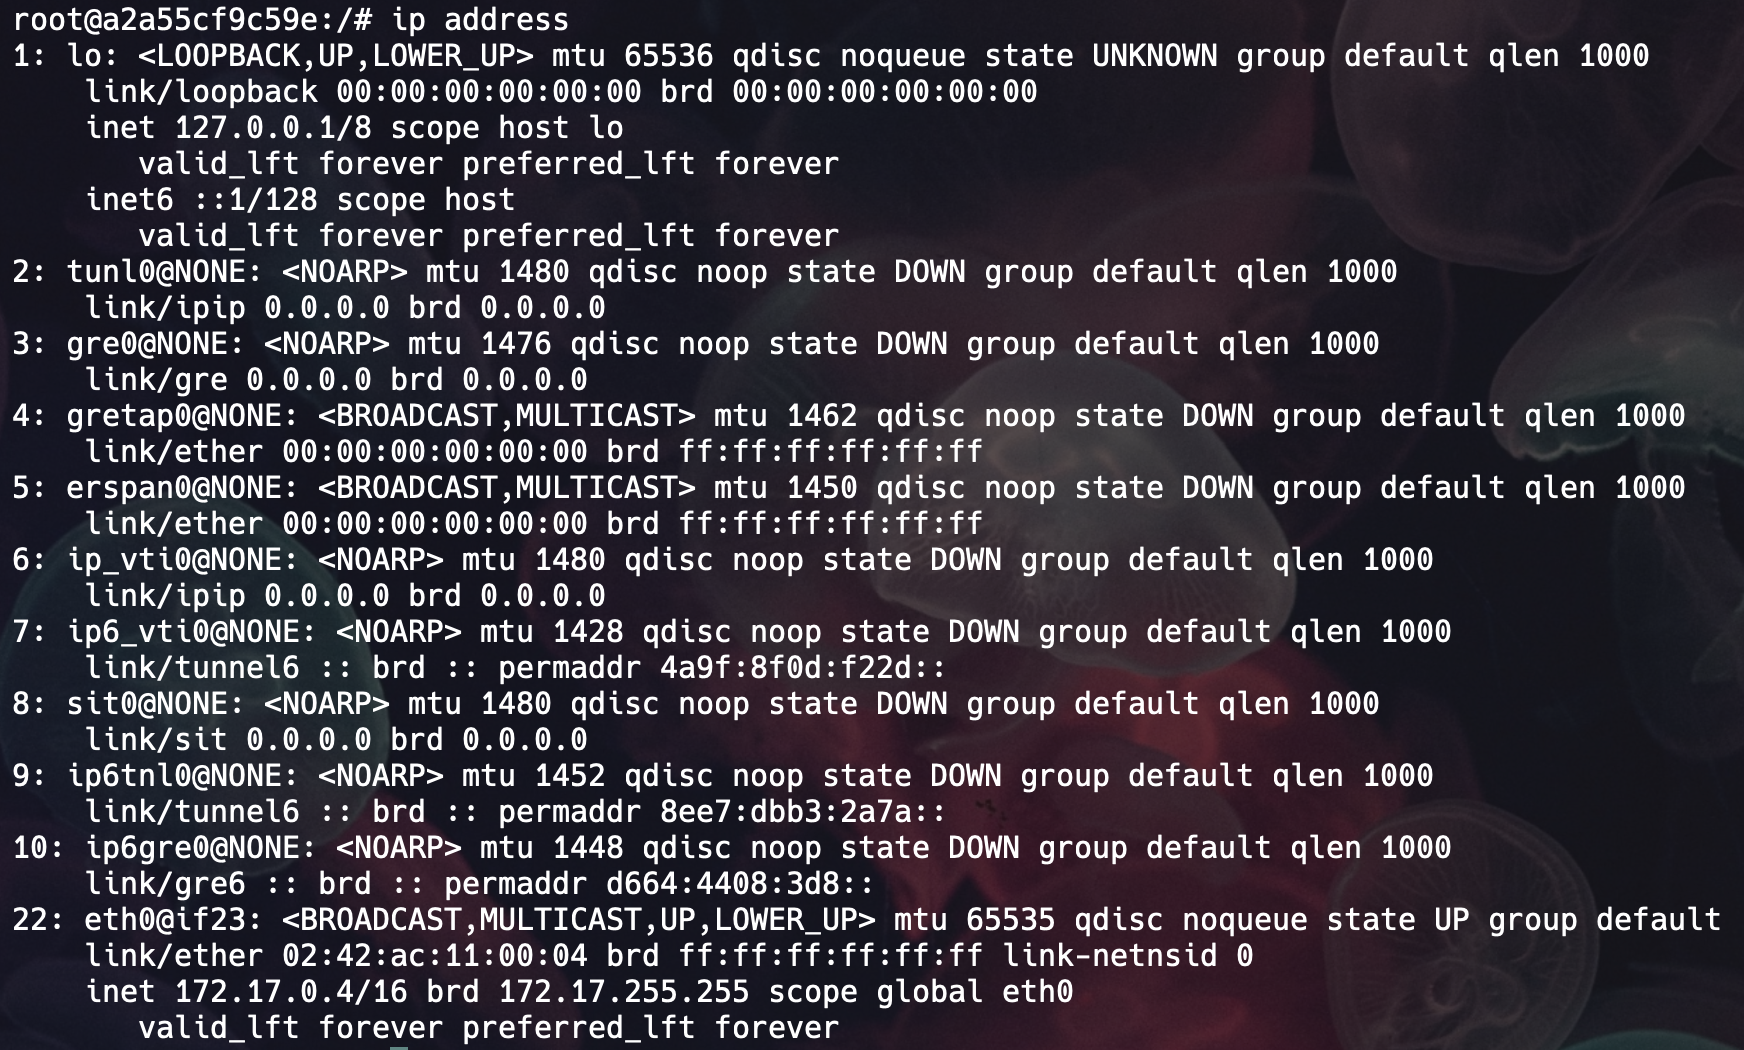
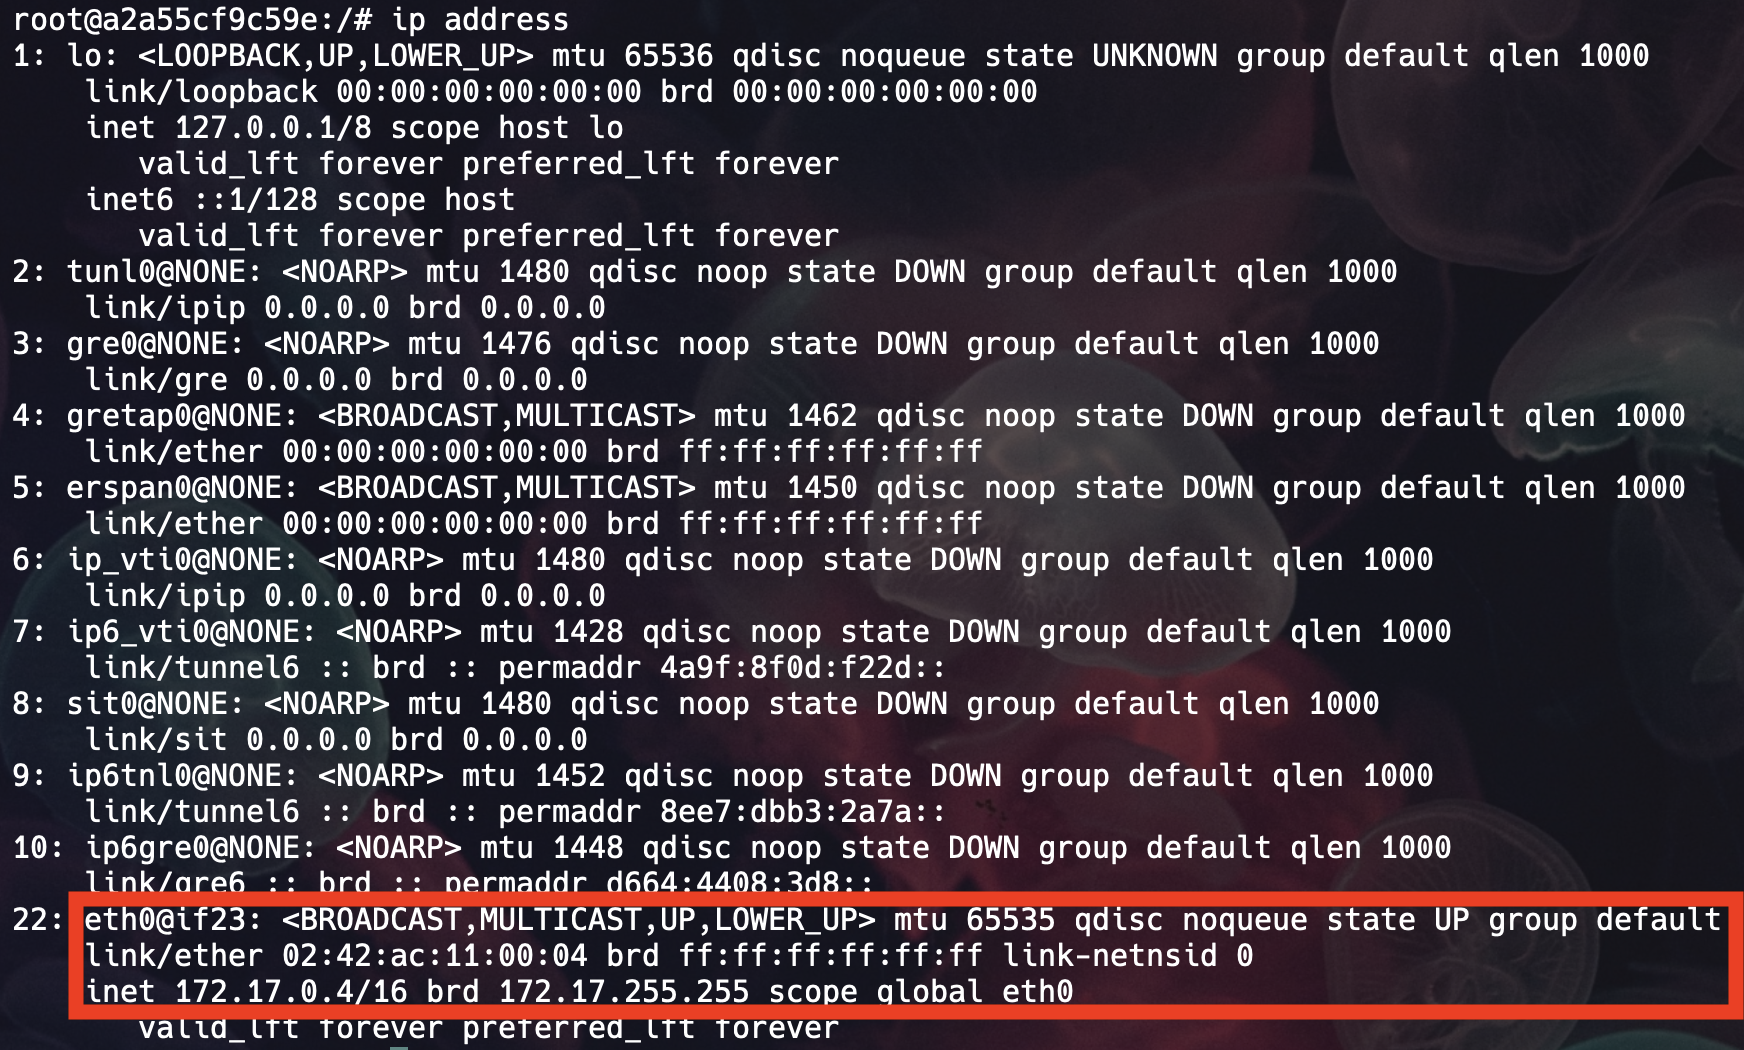
20個目追加

Changed region(s): [[0.031, 0.8229, 1.0, 0.9752]]

diff --git a/articles/sankaku0724-newcreate20.md b/articles/sankaku0724-newcreate20.md
@@ -1,5 +1,5 @@
 ---
-title: "【初学者向け】Dockerネットワーク"
+title: "【初学者向け】Dockerネットワークの基礎と実践"
 emoji: "🌐"
 type: "tech"
 topics:
@@ -13,7 +13,7 @@ published: false
 
 ## はじめに
 
-今回は、Dockerのネットワーク
+今回は、Dockerのネットワークについて説明します。
 
 :::message
 もし誤解や間違いがあれば、ぜひコメントなどでご指摘していただけると助かります。
@@ -36,47 +36,201 @@ https://docs.docker.jp/engine/reference/commandline/index.html
 
 https://docs.docker.com/
 
+## Dockerネットワーク
+
+私たちはDockerを扱う際に仮想的なネットワークを作ることで，Dockerホストとコンテナ、もしくはコンテナ間で通信することができます。
+
+ここで，[**`docker network`コマンド**](https://docs.docker.jp/engine/userguide/networking/work-with-networks.html)を用いることでDocker上のネットワークの各種設定をすることができます．
+
+まず，Dockerが管理するネットワークの確認をしてみます．Dockerが管理するネットワークは、`docker network ls`コマンドで確認できます。
+
+```
+docker network ls
+```
+
+![](/images/sankaku20/1.png)
+*Dockerが管理するネットワーク*
+
+実行画面から分かるように、「bridge」「host」「none」という三つのネットワークが表示されました．[デフォルトでDockerは三つのネットワークを自動的に作成するようになっています](https://docs.docker.jp/engine/userguide/networking/dockernetworks.html#id2)。
+
+それぞれどんな役割を持つのか確認してみましょう．
+
+## bridgeネットワーク
+
+**[bridgeネットワーク](https://docs.docker.jp/network/bridge.html)はDockerのデフォルトネットワークモード**で、ネットワークオプションを指定しない場合に使用されます。このモードでは、各コンテナのネットワークは独立しており、-pオプションを使用して通信するコンテナを指定します。Dockerホストやコンテナは、1つの仮想的なbridgeネットワークで接続され、IPアドレスが割り当てられます。
+
+### コンテナに割り当てられているIPアドレスの確認
+
+コンテナに対して、どのようなIPアドレスが割り当てられるのかを確認してみます。
+
+#### コンテナの作成
+
+ここでは、2つのhttpdコンテナを起動し、そのコンテナに割り当てられるIPアドレスを確認します。httpdの使い方などは以下のサイトを確認してください。
+
+https://hub.docker.com/_/httpd
+
+以下のコマンドでポート番号8080に割り当てた「web01」とポート番号8081に割り当てた「web02」という名前のコンテナをそれぞれ作成します．
+
+```
+docker run -dit --name web01 -p 8080:80 httpd:2.4
+```
+
+```
+docker run -dit --name web02 -p 8081:80 httpd:2.4
+```
+
+![](/images/sankaku20/2.png)
+*二つのhttpdコンテナを作成*
+
+#### IPアドレスの確認
+
+コンテナが起動したらIPアドレスを確認します．
+この際に，Dockerコンテナの詳細情報を取得するためのコマンドである[**`docker container inspect`コマンド**](https://docs.docker.jp/engine/reference/commandline/inspect.html)を用い，--formatオプションをつけることでIPアドレスの部分だけを表示させるようにします．
+
+```
+docker container inspect --format="{{.NetworkSettings.IPAddress}}" web01
+```
+
+```
+docker container inspect --format="{{.NetworkSettings.IPAddress}}" web02
+```
+
+![](/images/sankaku20/3.png)
+
+これにより，web01は「172.17.0.2」，web02は「172.17.0.3」というIPアドレスが設定されていることが判明しました．
+
+### Dockerコンテナ同士の通信
+
+コンテナはそれぞれ異なるIPアドレスを持ち、bridgeネットワークに接続されています。そのため，コンテナ同士はこのネットワークを通じて互いに自由に通信を行うことができます．
+
+ここで注意する必要があります．**Dockerコンテナ間で通信する際は，-pオプションを設定する必要がない**ということです．-pオプションはDockerホスト側で受信したデータをそれぞれのDockerコンテナの特定のポートに転送する設定ですが、Dockerホストを経由しない通信の場合には必要ないからです．
+
+#### 1. 三つ目のコンテナの作成
+
+実際にコンテナ間で通信できるのか試してみます。
+ここでは、三つ目のコンテナを作成し、そのコンテナからweb01とweb02に通信可能かどうかを確認します．
+
+以下のコマンドで新しいubuntuコンテナを作成し，シェルを起動します。実行するとプロンプトが表示され、コンテナ内でコマンド入力ができるようになります。
+
+```
+docker run --rm -it ubuntu /bin/bash
+```
+
+![](/images/sankaku20/4.png)
+*コマンド入力できるように*
+
+#### 2. 必要なものをインストール
+
+コマンド入力できるようになったら，以下のコマンドをそれぞれ入力することでネットワーク関連の操作を可能にします．
 
 ```
 apt update
 apt -y upgrade
 apt install -y iproute2 iputils-ping curl
 ```
+- **`apt update`**
+パッケージリストを最新の状態に更新します。これにより、システムは最新の利用可能なパッケージ情報を取得します。
 
-ping -c 3 172.17.0.2
+- **`apt -y upgrade`**
+インストールされているすべてのパッケージを最新バージョンにアップグレードします。-yオプションは、すべての質問に対して自動的に「yes」と答えるため、ユーザーの確認を省略します。
 
-curl http://172.17.0.2/
+- **`apt install -y iproute2 iputils-ping curl`**
+`iproute2`、`iputils-ping`、および`curl`パッケージをインストールします。-yオプションは、インストールに際しての確認を自動的に「yes」としてスキップします。
 
-docker run -dit --name web01 -p 8080:80 --net mynetwork httpd:2.4
+  - `iproute2`: ネットワークインターフェイスやルーティングを管理するためのツールセットであり，`ip`コマンドなどが含まれています。
+  - `iputils-ping`: ネットワークの接続性を確認するための `ping`コマンドを提供します。
+  - `curl`: URLからデータを取得するためのコマンドラインツールであり，HTTP、HTTPS、FTPなどのプロトコルをサポートしています。
+
+#### 3. IPアドレスを確認する
+
+`ip`コマンドでIPアドレスを確認します．
 
 ```
-
+ip address
 ```
-
-
-
-
-
-
-
-
-![](/images/sankaku20/1.png)
-
-![](/images/sankaku20/2.png)
-
-![](/images/sankaku20/3.png)
-
-![](/images/sankaku20/4.png)
 
 ![](/images/sankaku20/5.png)
 
+画像の最後の部分に表示されているeth0インターフェイスのinetの部分を確認すると，IPアドレスは「172.17.0.4」であることが確認できました。
+
+#### 4. pingで疎通確認
+
+既に確認してあるweb01コンテナやweb02コンテナのIPアドレスに対してpingを送信して疎通確認をします。
+
+```
+ping -c 3 172.17.0.2
+```
+
+- `-c 3`: 送信するパケットの回数を指定します。この場合、3回のリクエストを送信します。
+
 ![](/images/sankaku20/6.png)
+*web01へのping送信*
+
+```
+ping -c 3 172.17.0.3
+```
 
 ![](/images/sankaku20/7.png)
+*web02へのping送信*
+
+
+結果が「0% packet loss」となっていることから，疎通できていることがわかります．
+
+#### 5. コンテンツを取得
+
+次に，`curl`コマンドを使用してweb01やweb02に接続することで、公開されているWebコンテンツを取得できるかを確認します．
+
+```
+curl http://172.17.0.2/
+```
+
+```
+curl http://172.17.0.3/
+```
 
 ![](/images/sankaku20/8.png)
 
+「It works!」と表示されていることから，Webコンテンツを取得できていることがわかります．
+
+#### 6. IPアドレス以外で接続確認
+
+ここで，コンテナ名で接続しようとするとどうなるでしょうか．
+web01を指定して，`ip`コマンドや`curl`コマンドを使用してみます．
+
+```
+ping -c 3 web01
+```
+
+```
+curl http://web01/
+```
+
 ![](/images/sankaku20/9.png)
+*実行画面*
+
+どちらも同様に、**web01が見つからないというエラーが発生**します。
+
+#### 7. 作業終了
+
+`exit`と入力して終了します。
+
+```
+exit
+```
+
+### Dockerネットワークの新規作成
+
+このように、それぞれのコンテナは、割り当てられたIPアドレスを介して、互いに通信できることがわかりました。同時に、IPアドレスの代わりにコンテナ名を使って通信することはできないこともわかりました。
+コンテナ名で通信相手を指定できないのは、とても不便です。なぜなら、コンテナに対して、どのようなIPアドレスが割り当てられるのかはコンテナを起動するまでわかりませんし、コンテナを破棄して作り直せば、IPアドレスが変わる恐れがあるためです。実験や開発目的ならともかく、実運用まで考えたときは、IPアドレスではなくてコンテナ名で通信相手を特定できるほうが望ましいといえます。
+そのための方法は、2つあります。1つは、Dockerネットワークを新規に作成する方法、もう1つは
+-linkオプションを指定する方法です。後者の方法は非推奨なのでコラムで紹介することにし、以下では、前者の方法を説明していきます。
+
+
+```
+docker run -dit --name web01 -p 8080:80 --net mynetwork httpd:2.4
+```
+
+
 
 ![](/images/sankaku20/10.png)
 
@@ -109,16 +263,34 @@ docker run -dit --name web01 -p 8080:80 --net mynetwork httpd:2.4
 ![](/images/sankaku20/24.png)
 
 
+## hostネットワーク
 
+**[hostネットワーク](https://docs.docker.jp/network/host.html)は，コンテナがホストのネットワークスタックを直接使用するネットワークモード**です。
+**DockerホストのIPアドレスを全Dockerコンテナで共有して使うことができる**ため，ネットワーク性能が重要なアプリケーションやホストのIPアドレスをそのまま使用したい場合に適しています．これにより，ネットワークのオーバーヘッドが少なくなるため、通信速度が向上することがあります．また，コンテナがホストのネットワークを直接使用するため、ネットワークの設定が簡素化されるというメリットもあります．
 
+## noneネットワーク
 
-
-
-
+**[noneネットワーク](https://docs.docker.jp/network/none.html)は，コンテナがネットワークに接続しないネットワークモード**です。
+ネットワーク通信を必要としないため，バッチ処理やデータ処理タスクなど、**外部と通信させたくないコンテナを完全に独立した環境で作成できる**というメリットがあります．
 
 ## さいごに
 
-ここまで記事を読んでくださり、ありがとうございました！今回は、ZennのPV数をGoogle Analyticsで確認する方法について紹介しました。興味を持った方は、ぜひGoogle Analyticsを利用してZennの執筆のモチベーションを上げていきましょう！
+ざっくりまとめてみます．
+
+1. **bridgeネットワークはDockerのデフォルトネットワークモード**
+ネットワークオプションを指定しない場合に使用されます。Dockerホストやコンテナは、1つの仮想的なbridgeネットワークで接続され、IPアドレスが割り当てられます。また，bridgeネットワークでは、Dockerホスト同士はIPアドレスで接続できます。IPアドレスは、`docker network inspect`や`docker container inspect`で確認できます。
+
+2. **コンテナ間の通信では-pオプションは必要ない**
+コンテナ間の通信では、-pオプションを指定する必要がありません．コンテナ上の実際のポート番号で通信します。
+
+3. **名前を指定して通信したい場合はDockerネットワークを作る**
+コンテナ間の通信をする際に、コンテナ名でアクセスしたい場合には`docker network create`で新しいDockerネットワークを作りましょう．`docker run`する際に、--netオプションでそのネットワークにコンテナを参加させることにより、コンテナ名でアクセスできるようになります。
+
+4. **hostネットワークとnoneネットワーク**
+DockerホストのIPアドレスを全Dockerコンテナで共有して使うhostネットワークと、ネットワークに接続しないnoneネットワークというネットワークがあります。
+
+ここまで記事を読んでくださり、ありがとうございました！今回は、Dockerのネットワークの基礎についてまとめてみました。
+
+今後も、Dockerを理解するために突き進んでいきたいと思います！
 
 **皆さんも素敵なハッピーDockerライフを！！！🌸**
-
